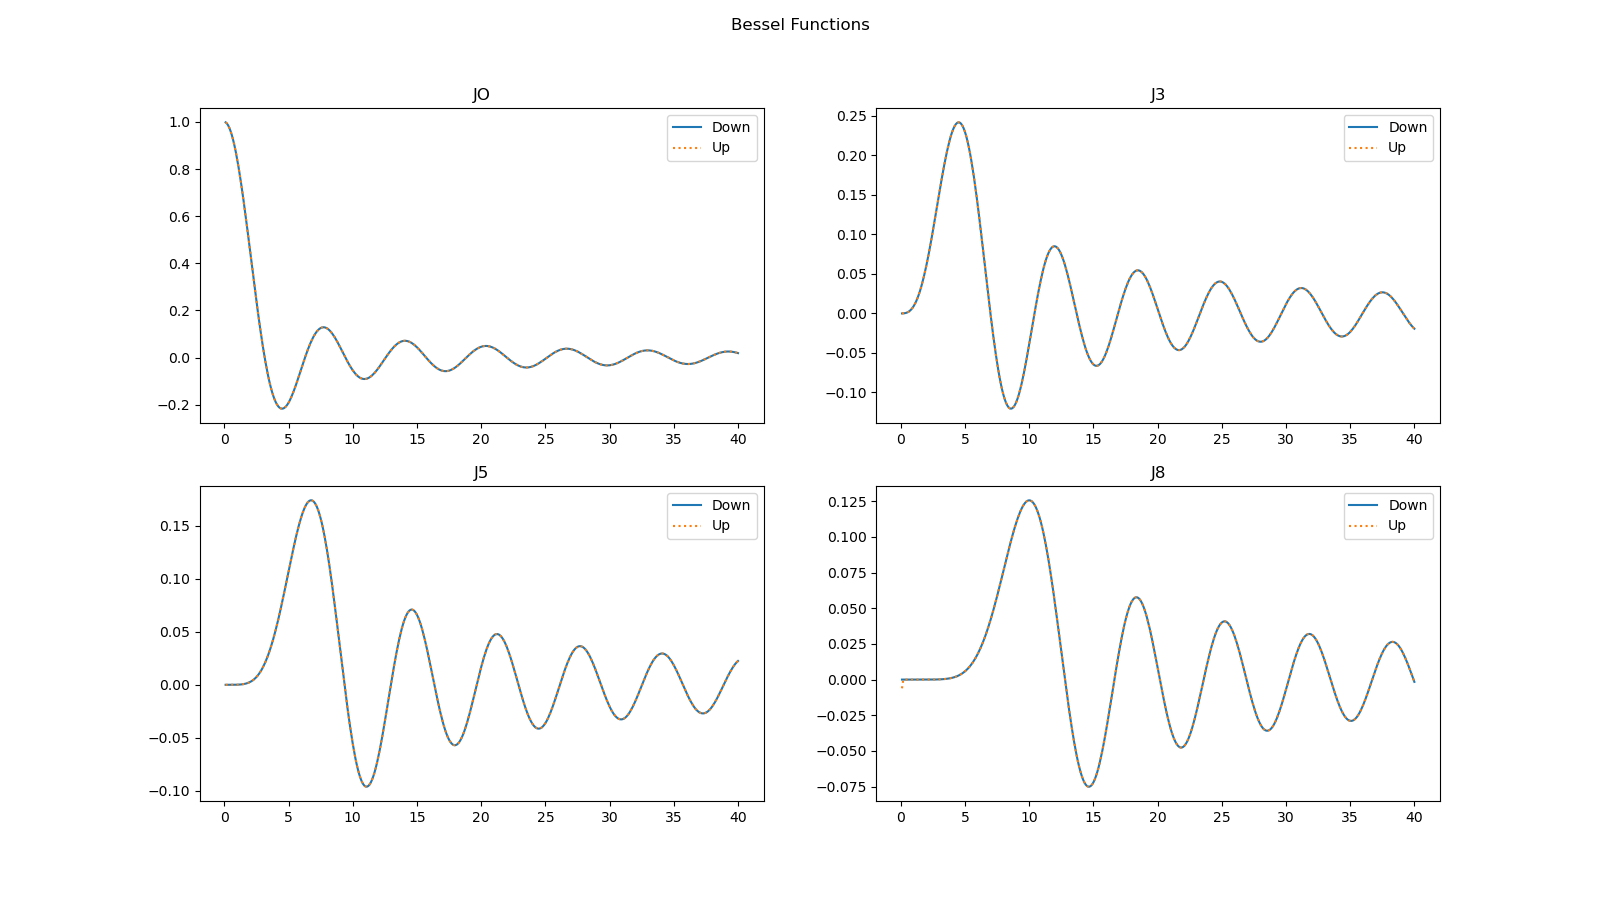
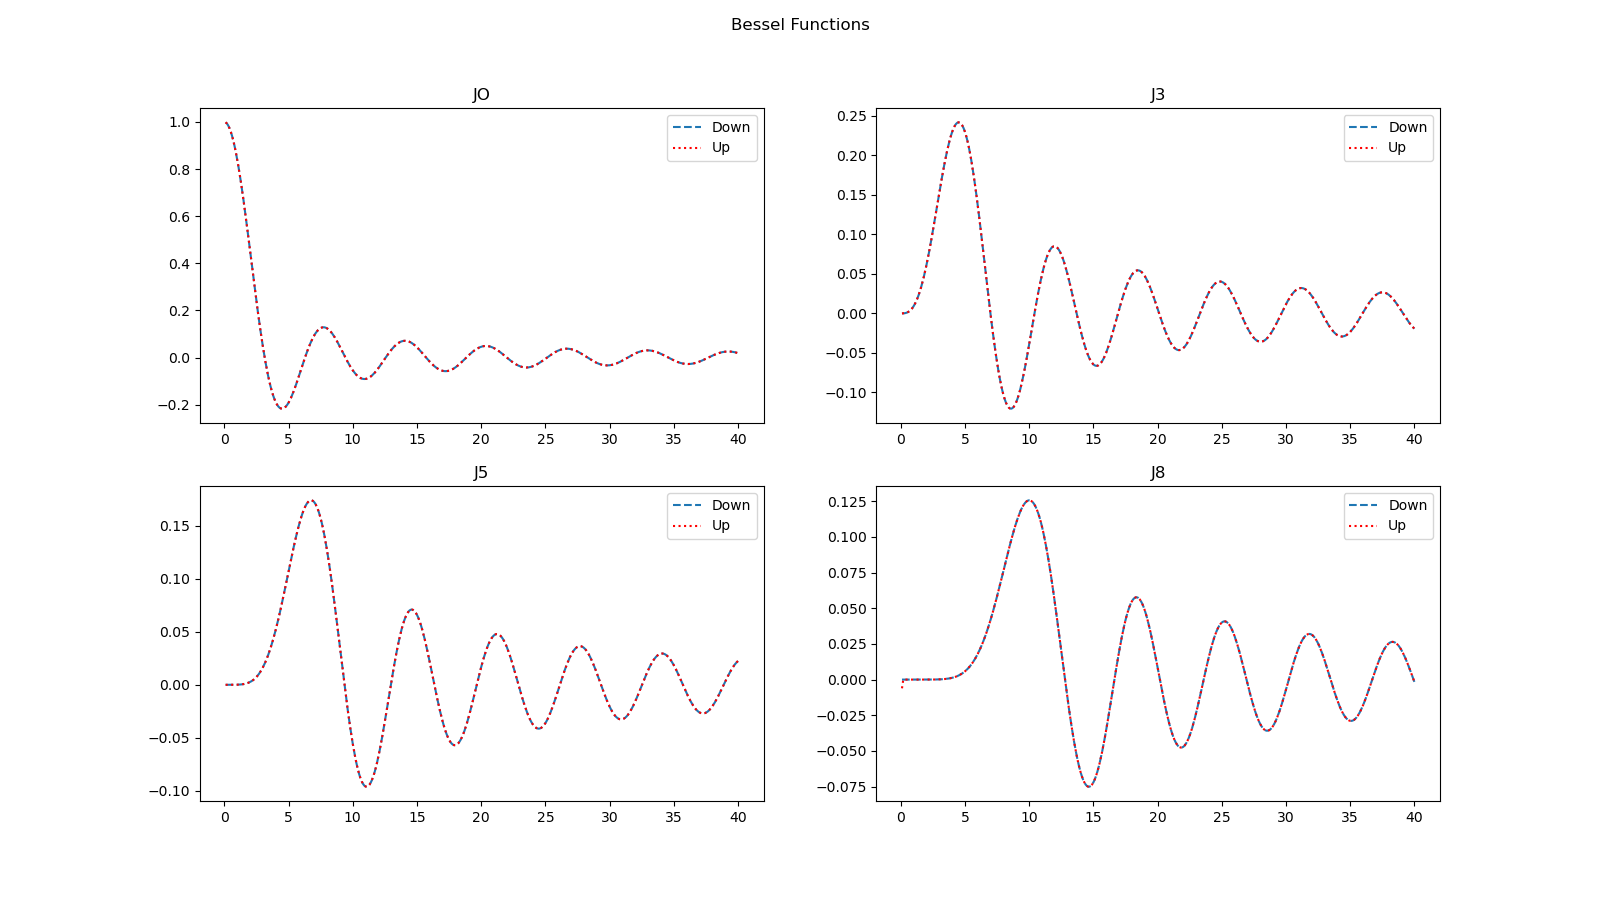
improved over_under

diff --git a/plots.py b/plots.py
@@ -45,17 +45,17 @@ fig, axs = plt.subplots(ncols=2, nrows=2, figsize=[16,9])
 plt.suptitle("Bessel Functions")
 
 
-axs[0,0].plot(x, j0_down, label="Down")
-axs[0,0].plot(x, j0_up, label="Up", linestyle="dotted")
+axs[0,0].plot(x, j0_down, label="Down", linestyle="dashed")
+axs[0,0].plot(x, j0_up, label="Up", linestyle="dotted", color='r')
 axs[0,0].legend()
-axs[0,1].plot(x, j3_down, label="Down")
-axs[0,1].plot(x, j3_up, label="Up", linestyle="dotted")
+axs[0,1].plot(x, j3_down, label="Down", linestyle="dashed")
+axs[0,1].plot(x, j3_up, label="Up", linestyle="dotted", color='r')
 axs[0,1].legend()
-axs[1,0].plot(x, j5_down, label="Down")
-axs[1,0].plot(x, j5_up, label="Up", linestyle="dotted")
+axs[1,0].plot(x, j5_down, label="Down", linestyle="dashed")
+axs[1,0].plot(x, j5_up, label="Up", linestyle="dotted", color='r')
 axs[1,0].legend()
-axs[1,1].plot(x, j8_down, label="Down")
-axs[1,1].plot(x, j8_up, label="Up", linestyle="dotted")
+axs[1,1].plot(x, j8_down, label="Down", linestyle="dashed")
+axs[1,1].plot(x, j8_up, label="Up", linestyle="dotted", color='r')
 axs[1,1].legend()
 
 axs[0,0].set_title("JO")

diff --git a/over_under.cpp b/over_under.cpp
@@ -22,10 +22,10 @@ for (int i=0; i<N; i++){
 
  std::cout << "\n\n\nStarting Integers \n\n\n" << std::endl;
 
- long int M = 10000;
+ long int M = 1000;
  int int_high = 2147480000;
  int int_low = -2147480000;
- unsigned int un_high = 429496000;
+ unsigned int un_high = 4294967000;
 
  for (int i=1; i<M; i++){
 
